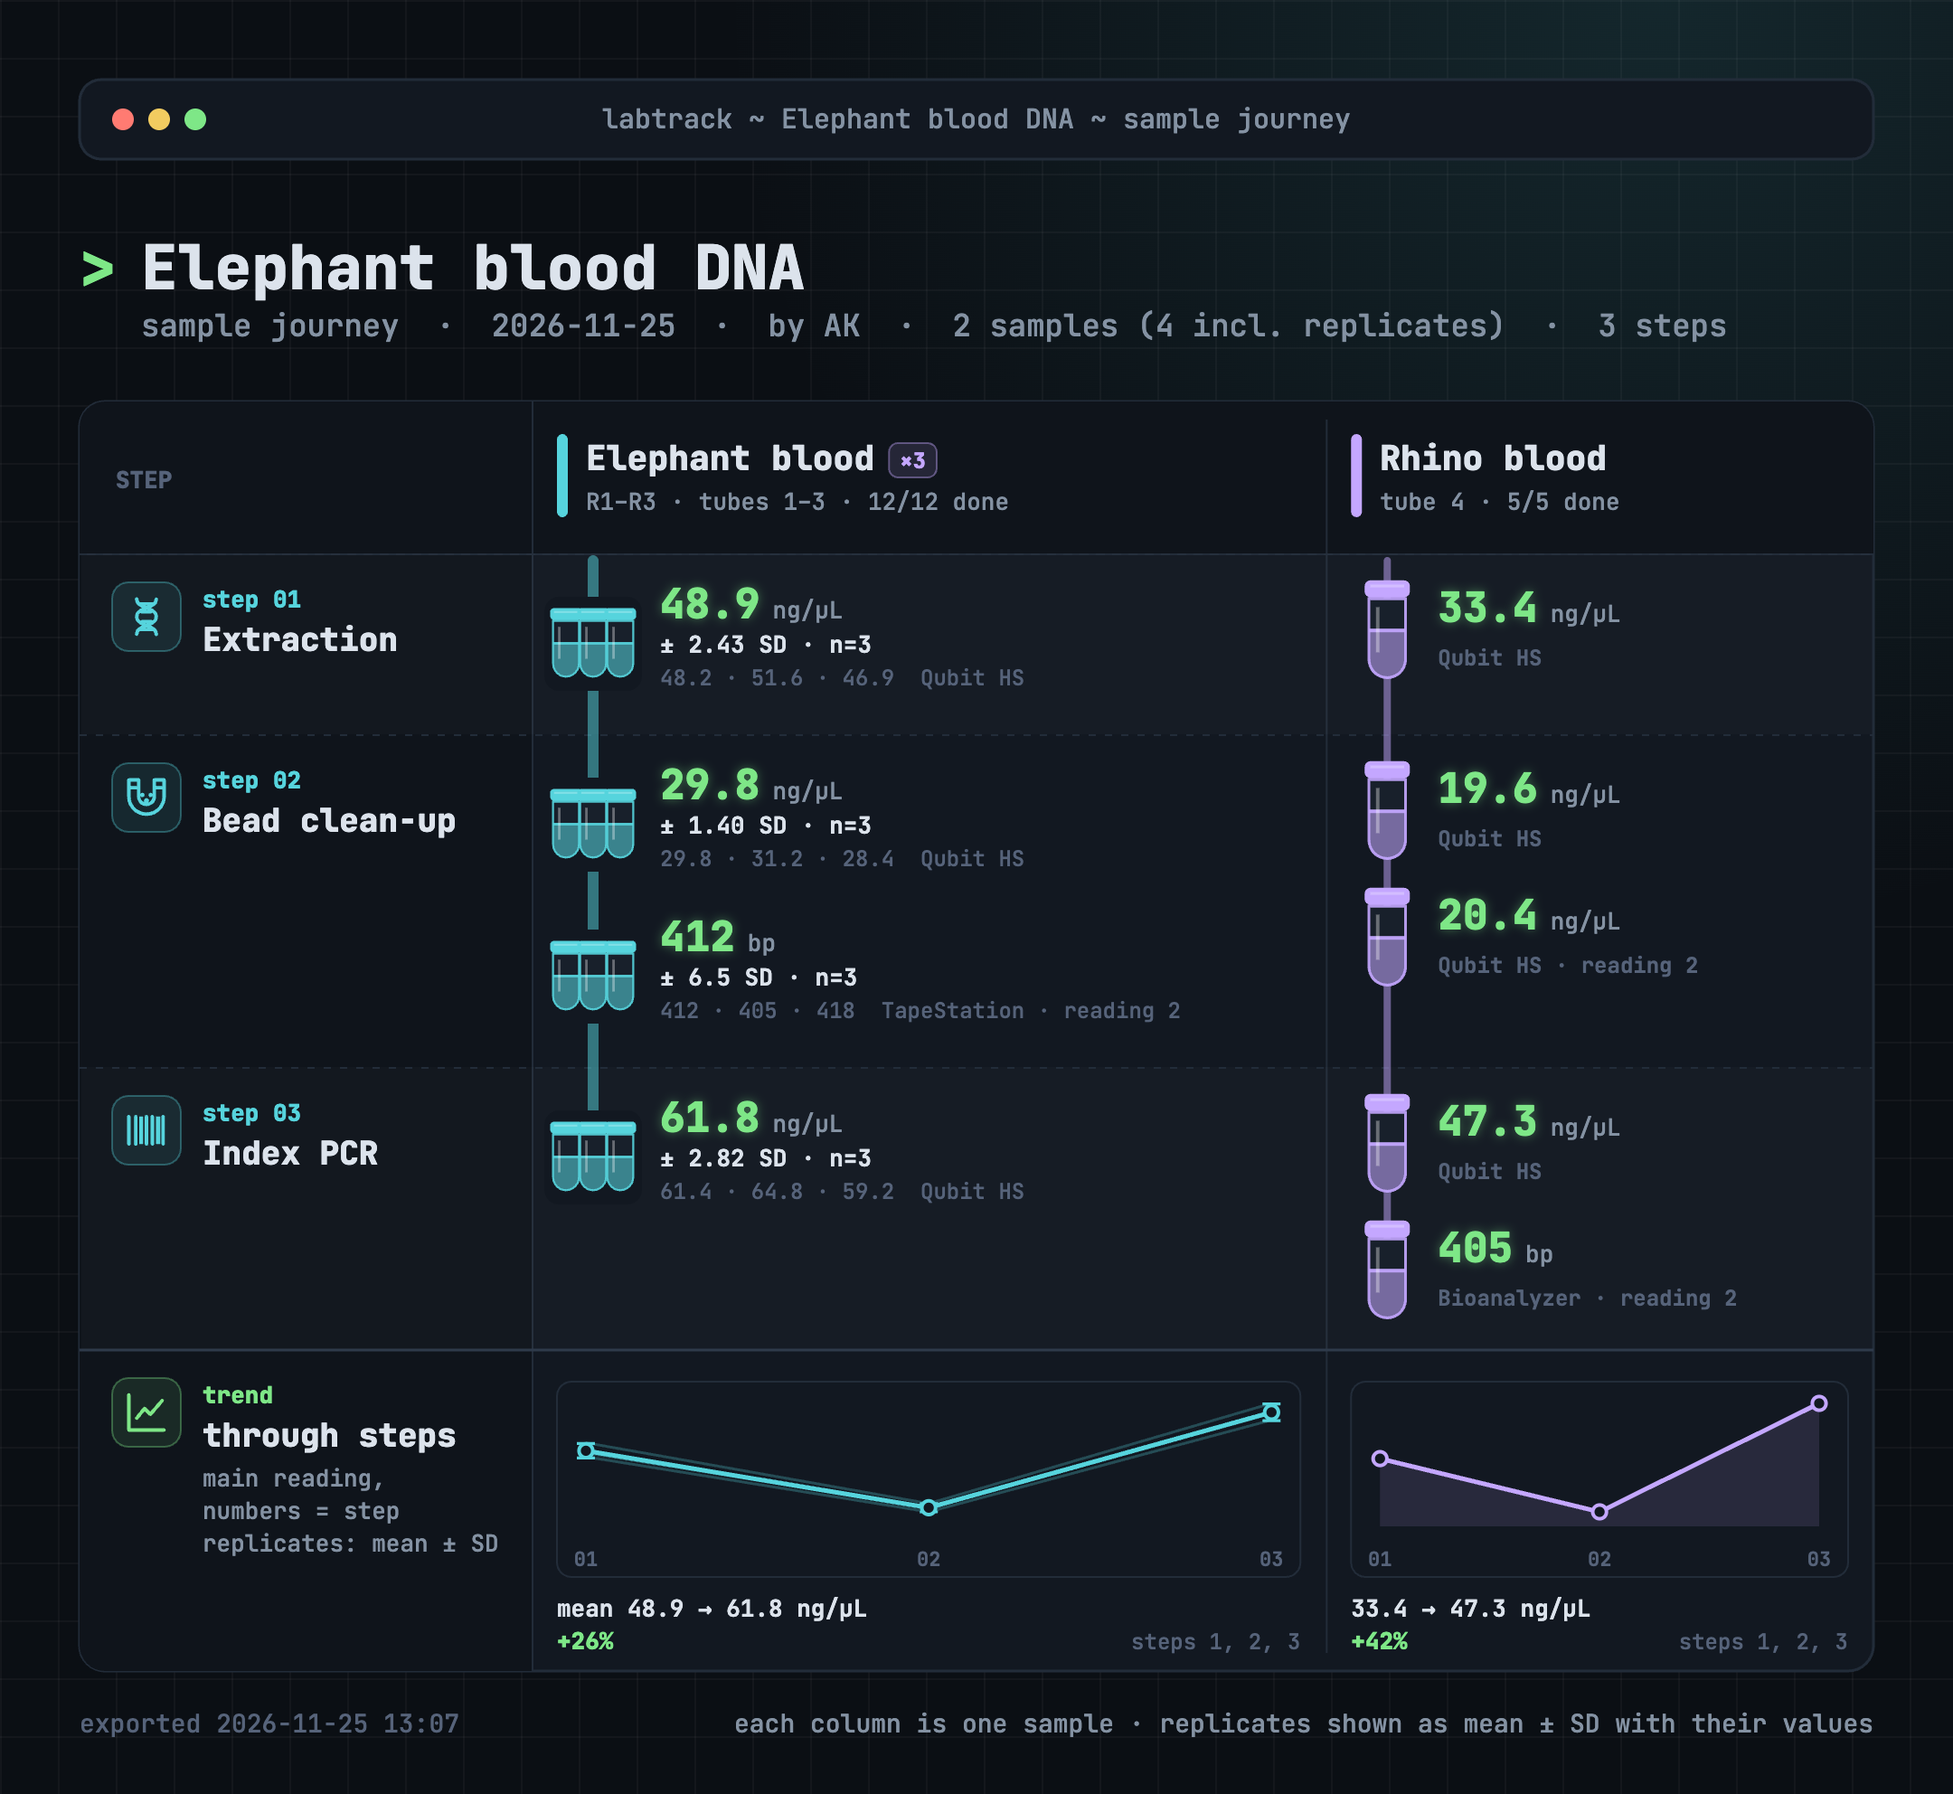
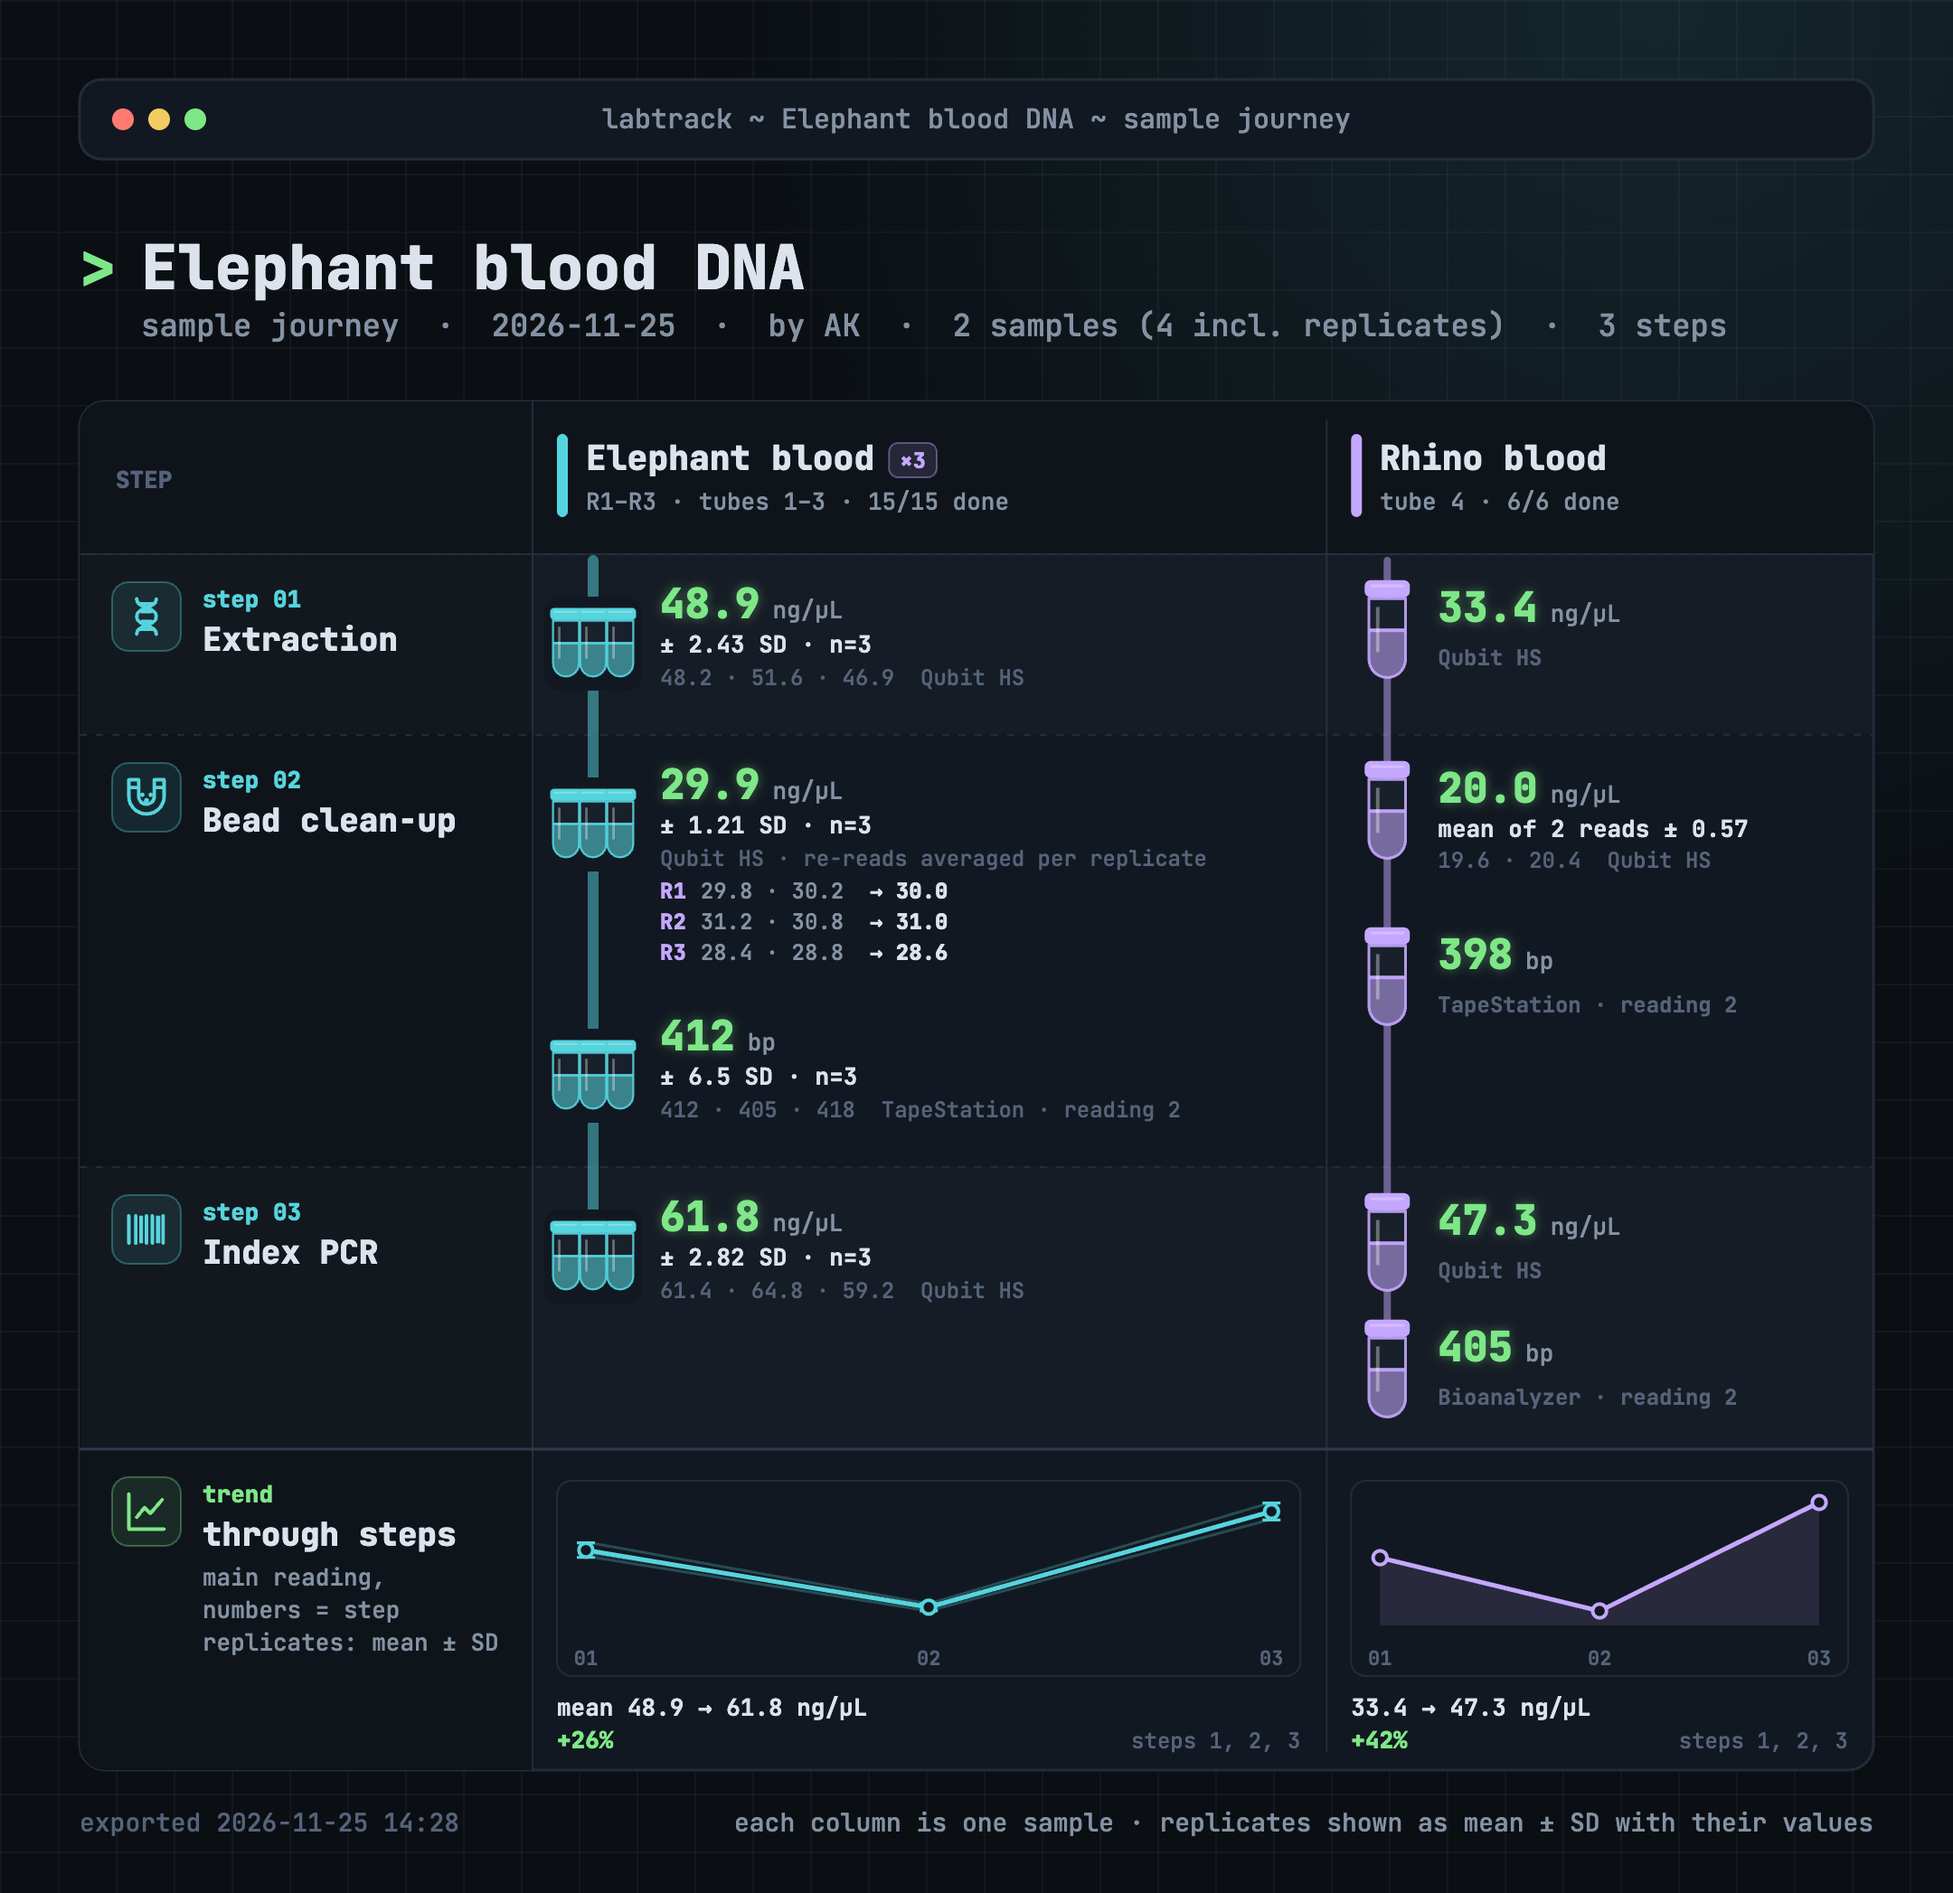
Regenerate the readings example picture with per-replicate averaging

diff --git a/Examples_and_screenshots/README.md b/Examples_and_screenshots/README.md
@@ -11,7 +11,7 @@ Example pictures exported from LabTrack and screenshots of the app at phone size
 | `03_picture_journey_light.png`, `03_picture_journey_dark.png` | **Sample journey** layout. Three samples followed from extraction through Illumina library prep to pooling, with a trend chart of the main reading. One sample stops at QC. |
 | `04_picture_journey_12_samples.jpg` | A 12-sample journey. Larger runs make a wide picture that suits slides. |
 | `05_picture_journey_replicates_light.png`, `05_picture_journey_replicates_dark.png` | **Replicates.** Elephant blood ×3 and Rhino blood ×3 show mean ± SD at each step with every replicate's value, next to a negative control. |
-| `06_picture_journey_readings_light.png`, `06_picture_journey_readings_dark.png` | **Several readings per step.** Qubit and TapeStation after a bead clean-up, a Qubit re-read and a Bioanalyzer reading. |
+| `06_picture_journey_readings_light.png`, `06_picture_journey_readings_dark.png` | **Several readings per step.** After the bead clean-up each replicate's tube is read twice on the Qubit. The re-reads are averaged within each replicate (R1 29.8 · 30.2 → 30.0), then mean ± SD is taken across replicates. A TapeStation reading and a single sample's re-reads (*mean of 2 reads*) are also shown, plus a Bioanalyzer reading. |
 
 ## The app (phone size)
 
